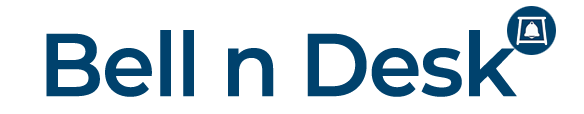
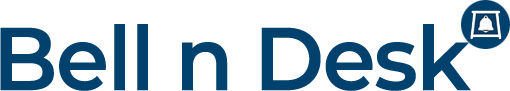
Ui changes

diff --git a/client/src/pages/SignUpLanding.js b/client/src/pages/SignUpLanding.js
@@ -198,7 +198,7 @@ const SignUpLanding = () => {
                                 align="center"
                                 fontWeight="bold"
                             >
-                                Create your Bell & Desk account
+                                Create your Bell n Desk account
                             </Typography>
                             <Box mt={2} display="flex" flexDirection="column" gap={2}>
                                 <TextField
@@ -277,13 +277,9 @@ const SignUpLanding = () => {
                                     <Link href="#">terms</Link> and{" "}
                                     <Link href="#">privacy policy</Link>.
                                 </Typography>
-                                <Typography
-                                    variant="body2"
-                                    align="center"
-                                    sx={{ mt: 1 }}
-                                >
+                                <Typography variant="body2" align="center" sx={{ mt: 1 }} >
                                     Already have an account?{" "}
-                                    <Link href="#" onClick={() => { setModalView("login"); setForm({ email: "", password: "" }); }}>Log in</Link>
+                                    <Link href="#" onClick={() => { setModalView("login"); setForm({ email: "", password: "" }); }}>Sign In</Link>
                                 </Typography>
                             </Box>
                         </>
@@ -295,7 +291,7 @@ const SignUpLanding = () => {
                                 align="center"
                                 fontWeight="bold"
                             >
-                                Log in to Bell & Desk
+                                Sign In to Bell n Desk
                             </Typography>
                             <Box mt={2} display="flex" flexDirection="column" gap={2}>
                                 <TextField

diff --git a/client/src/pages/CommunityUserSignup.js b/client/src/pages/CommunityUserSignup.js
@@ -154,7 +154,7 @@ const CommunityUserSignup = () => {
         const { approvalStatus } = response.data.data;
 
         if (approvalStatus === 'approved') {
-          setSuccess('Your account has been approved! You can now log in.');
+          setSuccess('Your account has been approved! You can now Sign In.');
           // Redirect to login page after a short delay
           setTimeout(() => {
             navigate('/community-user-login');
@@ -286,11 +286,11 @@ const CommunityUserSignup = () => {
           <Grid size={{ xs:12, md: 6, lg: 6 }}>
             <Box className="login_box">
               <Box>
-                <School sx={{ fontSize: 48, mb: 2 }} />
-                <Typography variant="h4" sx={{ fontWeight: 700, mb: 1 }}>
+                <School style={{ fontSize: 60, color: '#0F3C60', marginBottom: '0' }}/>
+                <Typography variant="h5" sx={{ fontWeight: 700, mb: 1 }}>
                   Community User Signup
                 </Typography>
-                <Typography variant="body1" sx={{ opacity: 0.9 }}>
+                <Typography variant="body1" sx={{ opacity: 0.9, mb:1 }}>
                   Join a learning community and start your journey
                 </Typography>
               </Box>
@@ -437,7 +437,7 @@ const CommunityUserSignup = () => {
                         </Link>
                       </Typography>
                     }
-                    sx={{ mb: 3 }}
+                    sx={{ mb: 1 }}
                   />
 
                   <Button

diff --git a/client/src/pages/UnifiedLogin.js b/client/src/pages/UnifiedLogin.js
@@ -317,15 +317,17 @@ const UnifiedLogin = () => {
              <Box className="login_box" elevation={10}> 
               <Box style={{ padding: '40px' }}>
                 {/* Header */}
-                <Box textAlign="left" mb={4}>
-                  <SchoolIcon style={{ fontSize: 60, color: '#0F3C60', marginBottom: '16px' }} />
-                  <Typography variant="h4" component="h1" gutterBottom style={{
+                <Box textAlign="left" mb={3}>
+                  <SchoolIcon style={{ fontSize: 60, color: '#0F3C60', marginBottom: '0' }} />
+                  <Box variant="h4" component="h1" gutterBottom style={{
                     fontWeight: 'bold',
                     color: '#0F3C60',
-                    marginBottom: '8px'
+                    marginBottom: '8px',
+                    width: '150px'
                   }}>
-                    Bell n Desk
-                  </Typography>
+                     
+                    <img src="/bnd-dark.png" alt="Bell n Desk Logo" style={{ width: '100%', height: 'auto' }} />
+                  </Box>
                 </Box>
 
                 {/* Success Message */}

diff --git a/client/src/pages/Discovery.js b/client/src/pages/Discovery.js
@@ -420,7 +420,7 @@ const Discovery = () => {
                   }
                 }}
               >
-                LOG IN
+                Sign In
               </Button>
 
 
@@ -432,11 +432,11 @@ const Discovery = () => {
       {/* Hero Section */}
       <Container maxWidth="xl" sx={{ py: 6 }}>
         <Box sx={{ textAlign: 'center', mb: 4 }}>
-          {/* Bell & Desk Logo */}
+          {/* Bell n Desk Logo */}
           {/* <Box sx={{ mb: 3 }}>
             <img
               src="/bnd-dark.png"
-              alt="Bell & Desk"
+              alt="Bell n Desk"
               style={{
                 height: '80px',
                 width: 'auto',

diff --git a/client/src/components/CourseLoginModal.js b/client/src/components/CourseLoginModal.js
@@ -236,10 +236,10 @@ const CourseLoginModal = ({ open, onClose, courseData }) => {
       <DialogContent sx={{ pt: 0 }}>
         <Box sx={{ textAlign: 'center', mb: 3 }}>
           <Typography variant="h6" sx={{ mb: 1, color: 'text.primary' }}>
-            Log In
+            Sign In
           </Typography>
           <Typography variant="body2" color="text.secondary">
-            Please log in to access this course content
+            Please Sign In to access this course content
           </Typography>
         </Box>
 

diff --git a/client/src/pages/CommunityUserLogin.js b/client/src/pages/CommunityUserLogin.js
@@ -265,7 +265,7 @@ const CommunityUserLogin = () => {
               <CardContent sx={{ p: 0 }}>
                 <Box sx={{ textAlign: 'left', mb: 4 }}>
                   <Typography variant="h4" sx={{ fontWeight: 700, mb: 2, color: '#333' }}>
-                    Bell and Desk User Login
+                    Bell n Desk User Login
                   </Typography>
                   <Typography variant="body1" sx={{ color: '#666' }}>
                     Login to access your community dashboard

diff --git a/client/src/pages/CommunityAbout.js b/client/src/pages/CommunityAbout.js
@@ -126,7 +126,7 @@ const CommunityAbout = () => {
               }}
               href={settings.login_button_url || '/login'}
             >
-              {settings.login_button_text || 'LOG IN'}
+              {settings.login_button_text || 'Sign In'}
             </Button>
           </Box>
         </Container>

diff --git a/client/src/pages/DiscoverCourseViewer.js b/client/src/pages/DiscoverCourseViewer.js
@@ -316,7 +316,7 @@ const DiscoverCourseViewer = () => {
                   px: 3
                 }}
               >
-                LOG IN
+                Sign In
               </Button>
             </Box>
           </Box>

diff --git a/client/src/pages/AboutUsAdmin.js b/client/src/pages/AboutUsAdmin.js
@@ -59,7 +59,7 @@ const AboutUsAdmin = () => {
     communityLogoUrl: '',
     
     // Header
-    loginButtonText: 'LOG IN',
+    loginButtonText: 'Sign In',
     loginButtonUrl: '',
     
     // Video Settings
